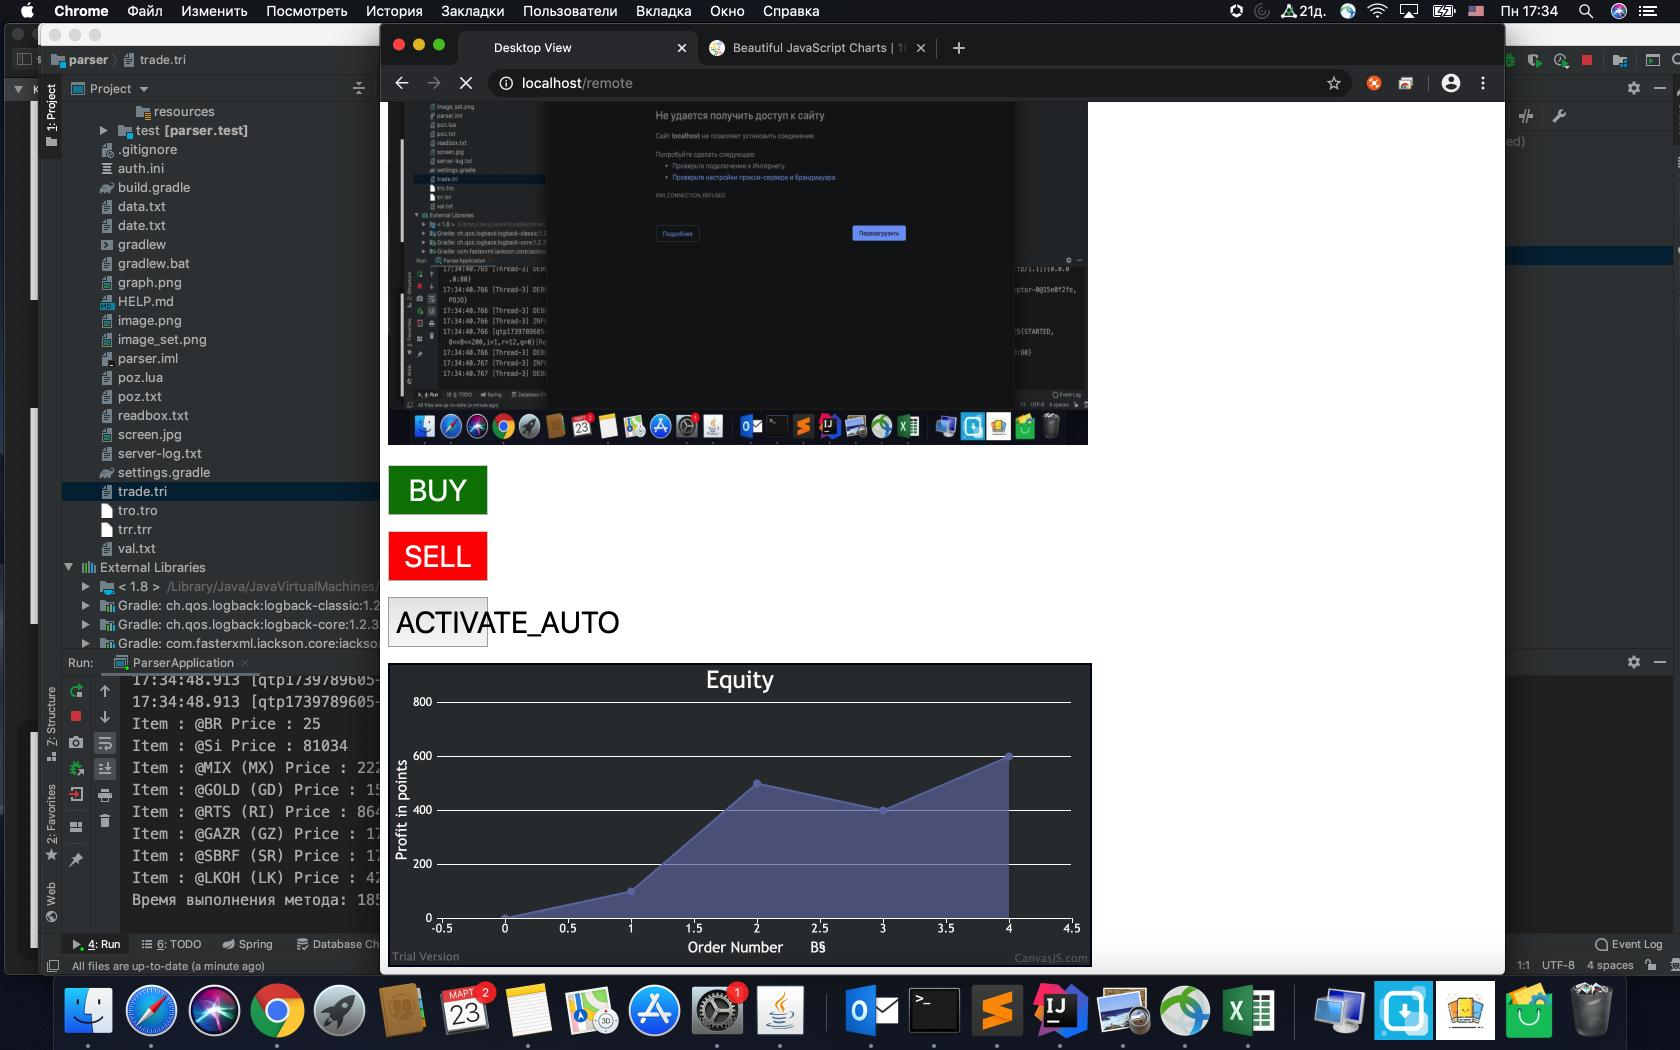
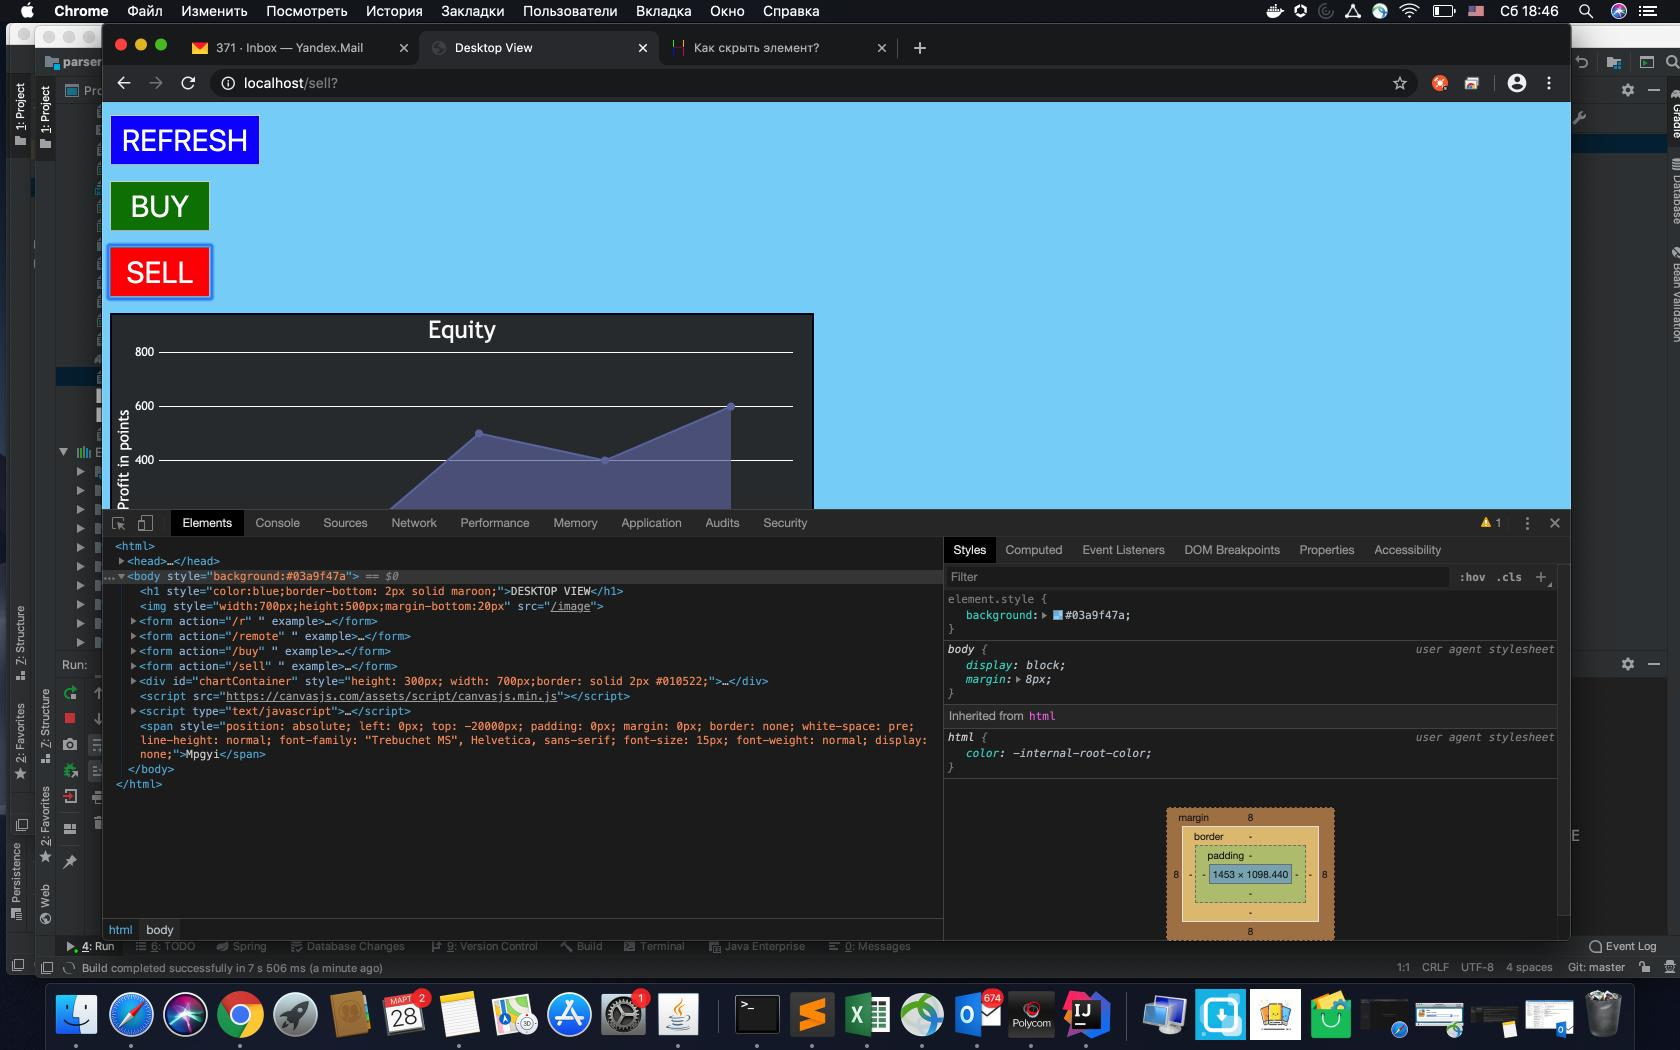
Remade1

diff --git a/src/main/java/ru/gavryushkin/parser/ParserApplication.java b/src/main/java/ru/gavryushkin/parser/ParserApplication.java
@@ -6,6 +6,7 @@ import org.jsoup.nodes.Element;
 import org.jsoup.select.Elements;
 import ru.gavryushkin.parser.bitmex.Bitmex;
 import ru.gavryushkin.parser.rest.JettyApplication;
+import ru.gavryushkin.parser.subscriber.Authorization;
 
 import javax.activation.DataHandler;
 import javax.activation.FileDataSource;
@@ -864,17 +865,16 @@ public class ParserApplication {
         @Override
         public void run() {
             work = true;
-            getRemoteAccess();
             text.setText("Ждите...Идёт авторизация.");
-            //token = new Authorization().isLogIn(dialog.tokenField.getText());
-            token=true;
+            token = new Authorization().isLogIn(dialog.tokenField.getText());
             if (token == false) {
                 text.setText("Активируйте подписку (введите TOKEN в настройках)");
             }
+            getRemoteAccess();
             //*************************************************************************************************************************//
             //Заглушка
+            Robot robot = null;
             while (work != false && token != false && dialog.webHooksMode.isSelected() != true) {
-                Robot robot = null;
                 try {
                     robot = new Robot();
                 } catch (AWTException e1) {
@@ -910,12 +910,15 @@ public class ParserApplication {
                 count++;
                 searchpixel(pixels);
             }
-
             //Инициализация режима WebHooks
-            if (work != false && dialog.webHooksMode.isSelected() == true && token != false) {
+            if (work != false && dialog.webHooksMode.isSelected() == true && token != false && JettyApplication.getStatusServer() != true) {
                 text.setText("Режим WebHooks запущен...");
-                jettyApplication = new JettyApplication(tr,dialog);
-                jettyApplication.startServerJetty();
+                try {
+                    jettyApplication = new JettyApplication(tr, dialog);
+                    jettyApplication.startServerJetty();
+                } catch (Exception e) {
+                }
+                ;
             }
         }
 
@@ -2190,8 +2193,8 @@ public class ParserApplication {
         }
 
         //Возвращает текущее направлении  позиции
-        public void setStatus(int newStatus){
-            status=newStatus;
+        public void setStatus(int newStatus) {
+            status = newStatus;
         }
 
         public synchronized void Order_Buy() {
@@ -2209,7 +2212,8 @@ public class ParserApplication {
                         str += list.get(i) + "=" + pr.getProperty(list.get(i)) + "; ";
                     }
                     size += Integer.parseInt(dialog.getQuantitytext()) * 2;
-                } else if (status == 0) {
+                }
+                if (status == 0) {
                     pr.setProperty("QUANTITY", String.valueOf(Integer.parseInt(dialog.getQuantitytext())));
                     for (int i = 0; i < list.size(); i++) {
                         str += list.get(i) + "=" + pr.getProperty(list.get(i)) + "; ";
@@ -2218,18 +2222,16 @@ public class ParserApplication {
                 }
                 //Деление реверсивного ордера
                 separateBuyOrder(pr, list, str);
-                if (dialog.getSeparateOrderCheckBox().isSelected() == Boolean.FALSE) {
-                    try {
-                        BufferedWriter writer = new BufferedWriter(new FileWriter("trade.tri", append = true));
-                        writer.write(str + "\r\n");
-                        writer.flush();
-                        writer.close();
-                        text.setText("Покупка...");
-                    } catch (IOException e1) {
-                        test.sendSignal("ERROR", "Ошибка записи в файл транзакций " + new Date());
-                        JOptionPane.showMessageDialog(new JFrame("Message"), "Ошибка записи в файл транзакций");
-                        e1.printStackTrace();
-                    }
+                try {
+                    BufferedWriter writer = new BufferedWriter(new FileWriter("trade.tri", append = true));
+                    writer.write(str + "\r\n");
+                    writer.flush();
+                    writer.close();
+                    text.setText("Покупка...");
+                } catch (IOException e1) {
+                    test.sendSignal("ERROR", "Ошибка записи в файл транзакций " + new Date());
+                    JOptionPane.showMessageDialog(new JFrame("Message"), "Ошибка записи в файл транзакций");
+                    e1.printStackTrace();
                 }
             } else {
                 try {
@@ -2271,7 +2273,8 @@ public class ParserApplication {
                         str += list.get(i) + "=" + pr.getProperty(list.get(i)) + "; ";
                     }
                     size -= Integer.parseInt(dialog.getQuantitytext()) * 2;
-                } else if (status == 0) {
+                }
+                if (status == 0) {
                     pr.setProperty("QUANTITY", String.valueOf(Integer.parseInt(dialog.getQuantitytext())));
                     for (int i = 0; i < list.size(); i++) {
                         str += list.get(i) + "=" + pr.getProperty(list.get(i)) + "; ";
@@ -2279,18 +2282,16 @@ public class ParserApplication {
                     size -= Integer.parseInt(dialog.getQuantitytext());
                 }
                 separateSellOrder(pr, list, str);
-                if (dialog.getSeparateOrderCheckBox().isSelected() == false) {
-                    try {
-                        BufferedWriter writer = new BufferedWriter(new FileWriter("trade.tri", append = true));
-                        writer.write(str + "\r\n");
-                        writer.flush();
-                        writer.close();
-                        text.setText("Продажа...");
-                    } catch (IOException e1) {
-                        test.sendSignal("ERROR", "Ошибка записи в файл транзакций " + new Date());
-                        JOptionPane.showMessageDialog(new JFrame("Message"), "Ошибка записи в файл транзакций");
-                        e1.printStackTrace();
-                    }
+                try {
+                    BufferedWriter writer = new BufferedWriter(new FileWriter("trade.tri", append = true));
+                    writer.write(str + "\r\n");
+                    writer.flush();
+                    writer.close();
+                    text.setText("Продажа...");
+                } catch (IOException e1) {
+                    test.sendSignal("ERROR", "Ошибка записи в файл транзакций " + new Date());
+                    JOptionPane.showMessageDialog(new JFrame("Message"), "Ошибка записи в файл транзакций");
+                    e1.printStackTrace();
                 }
             } else {
                 try {
@@ -2873,6 +2874,14 @@ public class ParserApplication {
                 && (!String.valueOf(dialog.cbFirst.getSelectedItem()).equals("STOCK ") || !String.valueOf(dialog.cbFirst.getSelectedItem()).equals("XBTUSD "))) {
             pr.setProperty("QUANTITY", String.valueOf(Integer.parseInt(dialog.getQuantitytext())));
             for (int j = 0; j < 2; j++) {
+                if (j == 1) {
+                    pr.setProperty("TRANS_ID", String.valueOf(++ID));
+                    try {
+                        Thread.sleep(3000);
+                    } catch (InterruptedException e) {
+                        e.printStackTrace();
+                    }
+                }
                 for (int i = 0; i < list.size(); i++) {
                     str += list.get(i) + "=" + pr.getProperty(list.get(i)) + "; ";
                 }
@@ -2888,8 +2897,8 @@ public class ParserApplication {
                     JOptionPane.showMessageDialog(new JFrame("Message"), "Ошибка записи в файл транзакций");
                     e1.printStackTrace();
                 }
-                size += Integer.parseInt(dialog.getQuantitytext());
             }
+            size += Integer.parseInt(dialog.getQuantitytext()) * 2;
         }
     }
 
@@ -2898,6 +2907,14 @@ public class ParserApplication {
                 && (!String.valueOf(dialog.cbFirst.getSelectedItem()).equals("STOCK ") || !String.valueOf(dialog.cbFirst.getSelectedItem()).equals("XBTUSD "))) {
             pr.setProperty("QUANTITY", String.valueOf(Integer.parseInt(dialog.getQuantitytext())));
             for (int j = 0; j < 2; j++) {
+                if (j == 1) {
+                    pr.setProperty("TRANS_ID", String.valueOf(++ID));
+                    try {
+                        Thread.sleep(3000);
+                    } catch (InterruptedException e) {
+                        e.printStackTrace();
+                    }
+                }
                 for (int i = 0; i < list.size(); i++) {
                     str += list.get(i) + "=" + pr.getProperty(list.get(i)) + "; ";
                 }
@@ -2914,8 +2931,8 @@ public class ParserApplication {
                     JOptionPane.showMessageDialog(new JFrame("Message"), "Ошибка записи в файл транзакций");
                     e1.printStackTrace();
                 }
-                size -= Integer.parseInt(dialog.getQuantitytext()) * 2;
             }
+            size -= Integer.parseInt(dialog.getQuantitytext()) * 2;
         }
     }
 
@@ -2923,9 +2940,13 @@ public class ParserApplication {
         if (token == false) {
             text.setText("Активируйте подписку (введите TOKEN в настройках)");
         }
-        if (dialog.getRemoteAccessCheck().isSelected() == true && token != false) {
-            JettyApplication jettyApplication = new JettyApplication(tr,dialog);
-            jettyApplication.startServerJetty();
+        if (dialog.getRemoteAccessCheck().isSelected() == true && token != false && JettyApplication.getStatusServer() != true) {
+            try {
+                JettyApplication jettyApplication = new JettyApplication(tr, dialog);
+                text.setText("Удалённый доступ запущен.Ещё раз нажмите кнопку START.");
+                jettyApplication.startServerJetty();
+            } catch (Exception e) {
+            }
         }
     }
 
@@ -2947,17 +2968,17 @@ public class ParserApplication {
                 } catch (Exception e) {
                     continue;
                 }
-                    if (item.contains("@Si")
-                            || item.equals("@RTS (RI)")
-                            || item.equals("@GOLD (GD)")
-                            || item.equals("@SBRF (SR)")
-                            || item.equals("@GAZR (GZ)")
-                            || item.equals("@MIX (MX)")
-                            || item.equals("@BR")
-                            || item.equals("@LKOH (LK)")) {
-                price = String.valueOf((int) Double.parseDouble(price.equals("N/A") ? "0" : price));
-                map.put(item, price);
-                    }
+                if (item.contains("@Si")
+                        || item.equals("@RTS (RI)")
+                        || item.equals("@GOLD (GD)")
+                        || item.equals("@SBRF (SR)")
+                        || item.equals("@GAZR (GZ)")
+                        || item.equals("@MIX (MX)")
+                        || item.equals("@BR")
+                        || item.equals("@LKOH (LK)")) {
+                    price = String.valueOf((int) Double.parseDouble(price.equals("N/A") ? "0" : price));
+                    map.put(item, price);
+                }
             }
         } catch (Exception e) {
             e.printStackTrace();

diff --git a/src/main/java/ru/gavryushkin/parser/rest/JettyApplication.java b/src/main/java/ru/gavryushkin/parser/rest/JettyApplication.java
@@ -27,7 +27,7 @@ import java.util.Map;
 import java.util.Scanner;
 
 public class JettyApplication {
-
+    static Server server = new Server();
     private static String orderSide = "";
     private static ParserApplication.Trade trade;
     private static ParserApplication.Dialog dialog;
@@ -40,7 +40,6 @@ public class JettyApplication {
     }
 
     public void startServerJetty() {
-        Server server = new Server();
         ServerConnector connector = new ServerConnector(server);
         connector.setPort(80);
         server.addConnector(connector);
@@ -118,15 +117,18 @@ public class JettyApplication {
                 resp.getWriter().println("<body>");
                 resp.getWriter().println("<h1 style=\"color:blue;border-bottom: 2px solid maroon;\">DESKTOP VIEW</h1>");
                 resp.getWriter().println("<img style=\"width:700px;height:500px;margin-bottom:20px\" src=\"/image\">");
+                resp.getWriter().println("<form action=\"/r\"\"/example/\">\n" +
+                        "<button style=\"color:white;width:2px;height:2px;background:blue;font-size:30px;display: none\" type=\"submit\">REFRESH</button>\n" +
+                        "</form>");
+                resp.getWriter().println("<form action=\"/remote\"\"/example/\">\n" +
+                        "<button style=\"color:white;width:150px;height:50px;background:blue;font-size:30px;\" type=\"submit\">REFRESH</button>\n" +
+                        "</form>");
                 resp.getWriter().println("<form action=\"/buy\"\"/example/\">\n" +
                         "<button style=\"color:white;width:100px;height:50px;background:green;font-size:30px;\" type=\"submit\">BUY</button>\n" +
                         "</form>");
                 resp.getWriter().println("<form action=\"/sell\"\"/example/\">\n" +
                         "<button style=\"color:white;width:100px;height:50px;background:red;font-size:30px;\" type=\"submit\">SELL</button>\n" +
                         "</form>");
-//                resp.getWriter().println("<form action=\"/sell\"\"/example/\">\n" +
-//                        "<button style=\"color:black;width:250px;height:50px;background:white;font-size:30px;\" type=\"submit\">ACTIVATE_AUTO</button>\n" +
-//                        "</form>");
                 resp.getWriter().println("<div id=\"chartContainer\" style=\"height: 300px; width: 700px;border: solid 2px #010522;\"></div>\n" +
                         "\n" +
                         "<script src=\"https://canvasjs.com/assets/script/canvasjs.min.js\"></script>\n" +
@@ -173,7 +175,7 @@ public class JettyApplication {
                         "                text: \"Equity\"\n" +
                         "            },\n" +
                         "            axisX: {\n" +
-                        "                title: \"Order Number      §\",\n" +
+                        "                title: \"Order Number\",\n" +
                         "                crosshair: {\n" +
                         "                    enabled: true,\n" +
                         "                    snapToDataPoint: true\n" +
@@ -291,5 +293,9 @@ public class JettyApplication {
          dialog.getBoxtrade().setState(true);
          dialog.save();
         }
+    }
+
+    public static boolean getStatusServer(){
+      return server.isStarted();
     }
 }

diff --git a/src/main/java/ru/gavryushkin/parser/bitmex/Bitmex.java b/src/main/java/ru/gavryushkin/parser/bitmex/Bitmex.java
@@ -22,7 +22,8 @@ public class Bitmex {
 
     private static RestTemplate restTemplate = new RestTemplate();
     private static String ApiKey = null;
-    private static String BASEPATH = "https://testnet.bitmex.com/api/v1";
+    //private static String BASEPATH = "https://testnet.bitmex.com/api/v1";
+    private static String BASEPATH="https://www.bitmex.com/api/v1";
 //    private final static String ID = "v0_GfasE_fVwbOEX5_PtTiPC";
 //    private final static String KEY = "6Z87UN9hJK-2jFnp-mgBlnznBPmOfHz7kKxvCb7t87MmjcBj";
 
